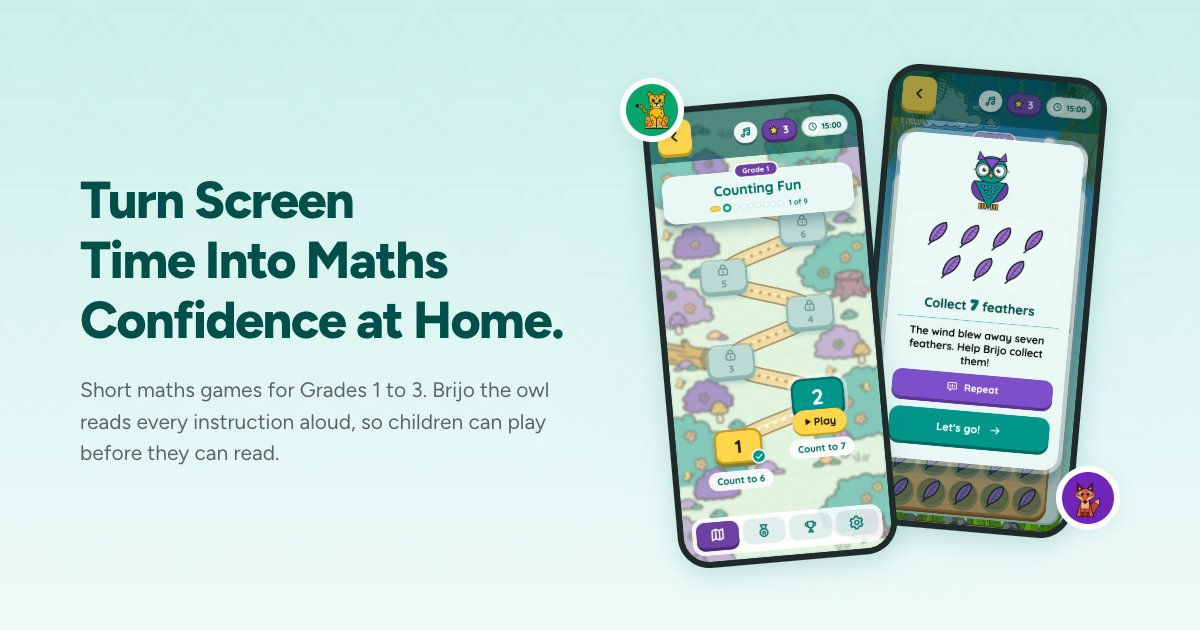
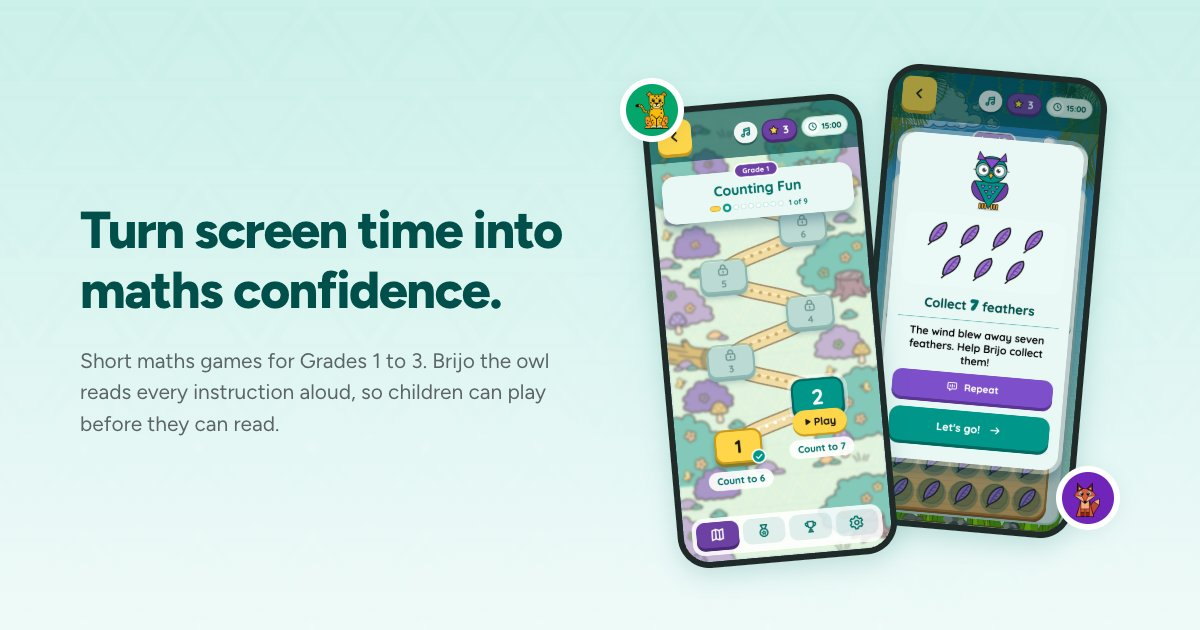
Use the new tagline, mention CBC and switch headings to sentence case
- Tagline "Turn screen time into maths confidence" in the hero, footer,
  llms.txt and the social preview image.
- Say the levels are built on Kenya's CBC maths curriculum, with a new FAQ
  and educationalAlignment in the app's structured data.
- Drop "no tracking" now that progress is saved with the account, and update
  the data and new-phone FAQ answers to match.
- Sentence case for headings, nav, buttons and footer links.

Changed region(s): [[0.0617, 0.2714, 0.4933, 0.6333], [0.0617, 0.6635, 0.4625, 0.754]]

diff --git a/src/data/faq.ts b/src/data/faq.ts
@@ -30,12 +30,17 @@ export const FAQ: { question: string; answer: string }[] = [
   {
     question: "What happens to my child's data?",
     answer:
-      "Children's names, stars and progress stay on the phone. We keep only the grown-up's email to log in. There are no ads, no tracking and no selling of data. Weekly email reports are off until a grown-up turns them on.",
+      "We keep the grown-up's email to log in, and each child's progress so it is safe with your account. There are no ads, and we never sell or share your family's data. Weekly email reports are off until a grown-up turns them on. The Privacy Policy lists exactly what we keep.",
+  },
+  {
+    question: "Does it follow the CBC curriculum?",
+    answer:
+      "Yes. Every level is built on the maths in Kenya's Competency-Based Curriculum (CBC) for Grades 1 to 3, using things children see at home and at the market.",
   },
   {
     question: "What maths does it cover?",
     answer:
-      "Eight skills from the Grade 1 to 3 syllabus: making 10, taking away, place value, adding on, counting in steps, equal groups, sharing equally and telling the time.",
+      "Eight skills from Kenya's CBC maths curriculum for Grades 1 to 3: making 10, taking away, place value, adding on, counting in steps, equal groups, sharing equally and telling the time.",
   },
 ];
 
@@ -62,6 +67,6 @@ export const HELP_FAQ: { question: string; answer: string }[] = [
   {
     question: "Can I move to a new phone?",
     answer:
-      "Your account moves with you: sign in on the new phone with the same email. Children's stars and progress are kept on the old phone, so they start their maps again.",
+      "Yes. Install ArithmeTick on the new phone and sign in with the same email. Each child's progress is saved with your account, so their maps, stars and badges come with them.",
   },
 ];

diff --git a/src/pages/llms.txt.ts b/src/pages/llms.txt.ts
@@ -15,19 +15,19 @@ export const GET: APIRoute = ({ site }) => {
     .join("\n\n");
   const body = `# ArithmeTick
 
-> A maths app for Kenyan children in Grades 1 to 3 (ages 6 to 9) on Android. Brijo the owl reads every instruction aloud, children count real things like bottle tops and mangoes, and a grown-up joins in for Move & Play activities. Free during the beta, no ads, made in Nairobi, Kenya.
+> Turn screen time into maths confidence. A maths app for Kenyan children in Grades 1 to 3 (ages 6 to 9) on Android, built on Kenya's CBC curriculum. Brijo the owl reads every instruction aloud, children count real things like bottle tops and mangoes, and a grown-up joins in for Move & Play activities. Free during the beta, no ads, made in Nairobi, Kenya.
 
 - Install: [Google Play](${PLAY_STORE_URL})
 - Support: ${SUPPORT_EMAIL}
 
 ## Pages
 
-- [For Families](${origin}/): what the app is and who it is for
-- [How It Works](${origin}/how-it-works): every level, grade by grade, and the eight skills
+- [For families](${origin}/): what the app is and who it is for
+- [How it works](${origin}/how-it-works): every level, grade by grade, and the eight skills
 - [Contact](${origin}/contact): install link and support email
-- [Privacy Policy](${origin}/privacy): what is collected (only a grown-up's email; children's data stays on the phone)
+- [Privacy Policy](${origin}/privacy): what is collected and why
 - [Terms of Use](${origin}/terms)
-- [Delete Your Account](${origin}/delete-account)
+- [Delete your account](${origin}/delete-account)
 
 ## Questions parents ask
 
